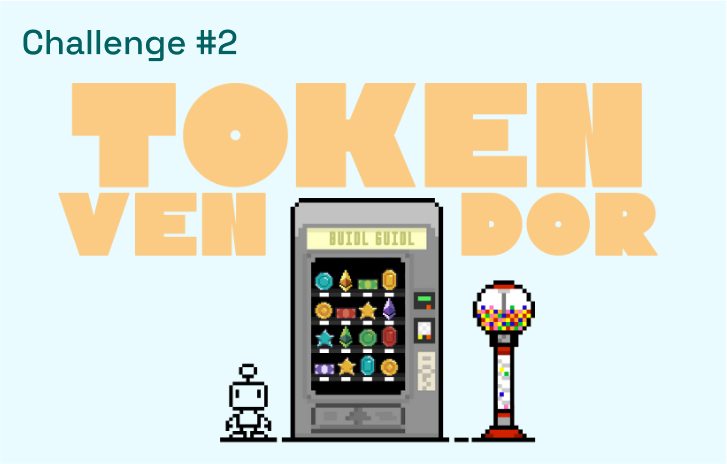
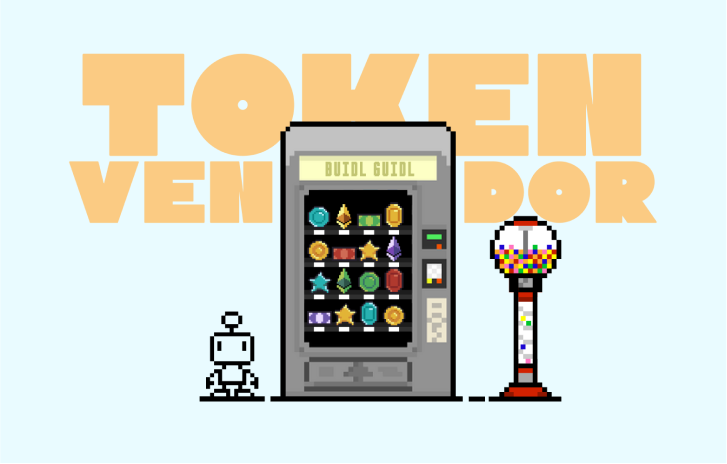
Delete challenge # from image assets

diff --git a/README.md b/README.md
@@ -1,6 +1,6 @@
 # 🚩 Challenge 2: 🏵 Token Vendor 🤖
 
-![readme-2](https://github.com/scaffold-eth/se-2-challenges/assets/55535804/b427171f-3f20-41a5-b76f-05d67e2b9959)
+![readme-2](https://github.com/user-attachments/assets/85525249-15c6-47fc-b0f7-18c42773fe39)
 
 🤖 Smart contracts are kind of like "always on" _vending machines_ that **anyone** can access. Let's make a decentralized, digital currency. Then, let's build an unstoppable vending machine that will buy and sell the currency. We'll learn about the "approve" pattern for ERC20s and how contract to contract interactions work.
 
@@ -236,7 +236,7 @@ await vendor.transferOwnership("**YOUR FRONTEND ADDRESS**");
 
 #### Configuration of Third-Party Services for Production-Grade Apps.
 
-By default, 🏗 Scaffold-ETH 2 provides predefined API keys for popular services such as Alchemy and Etherscan. This allows you to begin developing and testing your applications more easily, avoiding the need to register for these services.  
+By default, 🏗 Scaffold-ETH 2 provides predefined API keys for popular services such as Alchemy and Etherscan. This allows you to begin developing and testing your applications more easily, avoiding the need to register for these services.
 This is great to complete your **SpeedRunEthereum**.
 
 For production-grade applications, it's recommended to obtain your own API keys (to prevent rate limiting issues). You can configure these at:
